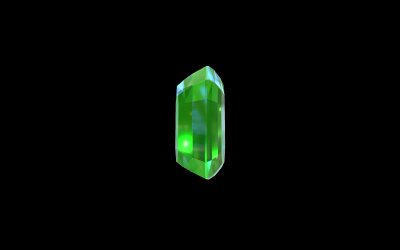
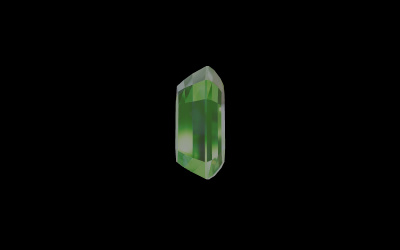
Examples: Clean up. (#21767)

Changed region(s): [[0.42, 0.252, 0.57, 0.728]]

diff --git a/examples/js/postprocessing/SSAARenderPass.js b/examples/js/postprocessing/SSAARenderPass.js
@@ -80,8 +80,16 @@
 			const baseSampleWeight = 1.0 / jitterOffsets.length;
 			const roundingRange = 1 / 32;
 			this.copyUniforms[ 'tDiffuse' ].value = this.sampleRenderTarget.texture;
-			const width = readBuffer.width,
-				height = readBuffer.height; // render the scene multiple times, each slightly jitter offset from the last and accumulate the results.
+			const viewOffset = {
+				fullWidth: readBuffer.width,
+				fullHeight: readBuffer.height,
+				offsetX: 0,
+				offsetY: 0,
+				width: readBuffer.width,
+				height: readBuffer.height
+			};
+			const originalViewOffset = Object.assign( {}, this.camera.view );
+			if ( originalViewOffset.enabled ) Object.assign( viewOffset, originalViewOffset ); // render the scene multiple times, each slightly jitter offset from the last and accumulate the results.
 
 			for ( let i = 0; i < jitterOffsets.length; i ++ ) {
 
@@ -89,8 +97,8 @@
 
 				if ( this.camera.setViewOffset ) {
 
-					this.camera.setViewOffset( width, height, jitterOffset[ 0 ] * 0.0625, jitterOffset[ 1 ] * 0.0625, // 0.0625 = 1 / 16
-						width, height );
+					this.camera.setViewOffset( viewOffset.fullWidth, viewOffset.fullHeight, viewOffset.offsetX + jitterOffset[ 0 ] * 0.0625, viewOffset.offsetY + jitterOffset[ 1 ] * 0.0625, // 0.0625 = 1 / 16
+						viewOffset.width, viewOffset.height );
 
 				}
 
@@ -124,7 +132,16 @@
 
 			}
 
-			if ( this.camera.clearViewOffset ) this.camera.clearViewOffset();
+			if ( this.camera.setViewOffset && originalViewOffset.enabled ) {
+
+				this.camera.setViewOffset( originalViewOffset.fullWidth, originalViewOffset.fullHeight, originalViewOffset.offsetX, originalViewOffset.offsetY, originalViewOffset.width, originalViewOffset.height );
+
+			} else if ( this.camera.clearViewOffset ) {
+
+				this.camera.clearViewOffset();
+
+			}
+
 			renderer.autoClear = autoClear;
 			renderer.setClearColor( this._oldClearColor, oldClearAlpha );
 

diff --git a/examples/webgl_materials_physical_sheen.html b/examples/webgl_materials_physical_sheen.html
@@ -37,8 +37,7 @@
 				color: new THREE.Color( 255, 0, 127 ),
 				sheenBRDF: true,
 				sheen: new THREE.Color( 10, 10, 10 ), // corresponds to .04 reflectance
-				roughness: .9,
-				exposure: 2,
+				roughness: 0.9
 			};
 
 			// model
@@ -57,7 +56,7 @@
 				scene = new THREE.Scene();
 				scene.background = new THREE.Color( 0xbfd1e5 );
 
-				mesh.scale.multiplyScalar( .5 );
+				mesh.scale.multiplyScalar( 0.5 );
 				scene.add( mesh );
 
 				//
@@ -95,12 +94,12 @@
 				controls.target.set( 0, 2, 0 );
 				controls.update();
 
-				directionalLight = new THREE.DirectionalLight( 0xffffff, .5 );
+				directionalLight = new THREE.DirectionalLight( 0xffffff, 0.5 );
 				directionalLight.position.set( 0, 10, 0 );
 				directionalLight.castShadow = true;
 				directionalLight.add(
 					new THREE.Mesh(
-						new THREE.SphereGeometry( .5 ),
+						new THREE.SphereGeometry( 0.5 ),
 						new THREE.MeshBasicMaterial( { color: 0xffffff } )
 					)
 				);
@@ -141,7 +140,6 @@
 				gui.add( params, 'sheenBRDF' ).onChange( onUpdate );
 				gui.addColor( params, 'sheen' );
 				gui.add( params, 'roughness', 0, 1 );
-				gui.add( params, 'exposure', 0, 3 );
 				gui.open();
 
 				onUpdate();
@@ -190,7 +188,6 @@
 
 				//
 
-				renderer.toneMappingExposure = params.exposure;
 				renderer.render( scene, camera );
 
 			}

diff --git a/examples/webgl_materials_physical_reflectivity.html b/examples/webgl_materials_physical_reflectivity.html
@@ -29,9 +29,9 @@
 			const params = {
 				projection: 'normal',
 				autoRotate: true,
-				reflectivity: 1.0,
+				reflectivity: 1,
 				background: false,
-				exposure: 1.0,
+				exposure: 1,
 				gemColor: 'Green'
 			};
 			let camera, scene, renderer;
@@ -155,6 +155,7 @@
 				renderer.setPixelRatio( window.devicePixelRatio );
 				renderer.setSize( window.innerWidth, window.innerHeight );
 				renderer.shadowMap.enabled = true;
+				renderer.toneMapping = THREE.ACESFilmicToneMapping;
 				container.appendChild( renderer.domElement );
 
 				renderer.outputEncoding = THREE.sRGBEncoding;
@@ -171,7 +172,7 @@
 				const gui = new GUI();
 
 				gui.add( params, 'reflectivity', 0, 1 );
-				gui.add( params, 'exposure', 0.1, 2 );
+				gui.add( params, 'exposure', 0, 2 );
 				gui.add( params, 'autoRotate' );
 				gui.add( params, 'gemColor', [ 'Blue', 'Green', 'Red', 'White', 'Black' ] );
 				gui.open();

diff --git a/examples/js/loaders/MD2Loader.js b/examples/js/loaders/MD2Loader.js
@@ -102,7 +102,6 @@
 
 			const translation = new THREE.Vector3();
 			const scale = new THREE.Vector3();
-			const string = [];
 			const frames = [];
 			offset = header.offset_frames;
 
@@ -111,6 +110,7 @@
 				scale.set( data.getFloat32( offset + 0, true ), data.getFloat32( offset + 4, true ), data.getFloat32( offset + 8, true ) );
 				translation.set( data.getFloat32( offset + 12, true ), data.getFloat32( offset + 16, true ), data.getFloat32( offset + 20, true ) );
 				offset += 24;
+				const string = [];
 
 				for ( let j = 0; j < 16; j ++ ) {
 
